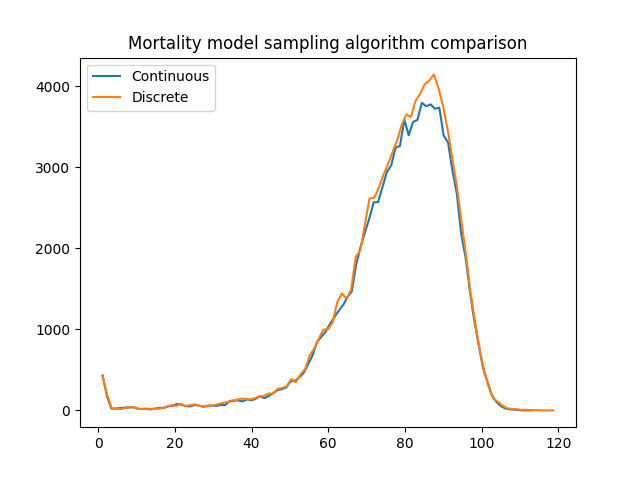
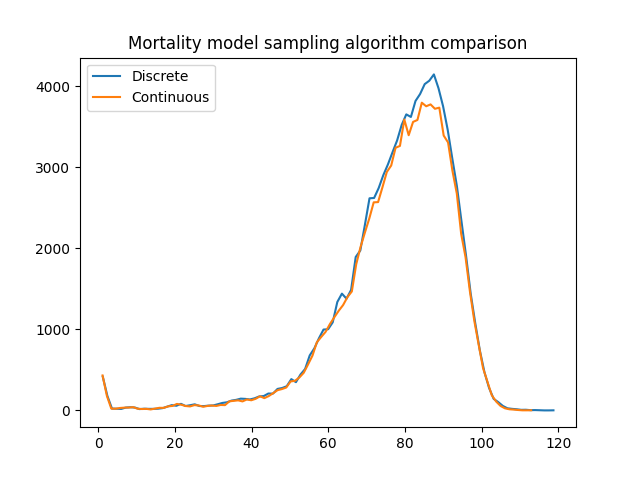
improve mortality example

diff --git a/examples/mortality/people.py b/examples/mortality/people.py
@@ -2,28 +2,24 @@
 import numpy as np
 import pandas as pd
 import neworder
-import ethpop
 
-class People(neworder.Model):
+class PeopleDiscrete(neworder.Model):
   """ Persons sampled each represented as a row in a data frame """
   def __init__(self, mortality_hazard_file, n, max_age):
     # This is case-based model the timeline refers to the age of the cohort
     timeline = neworder.Timeline(0.0, max_age, [int(max_age)])
     super().__init__(timeline, neworder.MonteCarlo.deterministic_identical_stream)
-    # initialise cohort
-    # filter by location, ethnicity and gender
-    self.mortality_hazard = ethpop.create(pd.read_csv(mortality_hazard_file), "E09000030", truncate85=False).reset_index()
 
-    self.mortality_hazard = self.mortality_hazard[(self.mortality_hazard.NewEthpop_ETH=="WBI")
-                                                & (self.mortality_hazard.DC1117EW_C_SEX==1)]
+    # initialise cohort
+    self.mortality_hazard = pd.read_csv(mortality_hazard_file)
 
     # store the largest age we have a rate for
     self.max_rate_age = max(self.mortality_hazard.DC1117EW_C_AGE) - 1
 
     #neworder.log(self.mortality_hazard.head())
-    self.population = pd.DataFrame(data={"Alive": np.full(n, True),
-                                         "Age": np.zeros(n),
-                                         "TimeOfDeath": np.zeros(n)})
+    self.population = pd.DataFrame(data={"alive": np.full(n, True),
+                                         "age": np.zeros(n),
+                                         "age_at_death": np.zeros(n)})
 
     self.max_age = max_age
 
@@ -31,11 +27,11 @@ class People(neworder.Model):
     # kill off some people
     self.die()
     # age the living only
-    alive = self.population.loc[self.population.Alive].index
-    self.population.loc[alive, "Age"] = self.population.loc[alive, "Age"] + self.timeline().dt()
+    alive = self.population.loc[self.population.alive].index
+    self.population.loc[alive, "age"] = self.population.loc[alive, "age"] + self.timeline().dt()
 
   def check(self):
-    neworder.log("pct alive = %f" % (100.0 * np.mean(self.population.Alive)))
+    neworder.log("pct alive = %f" % (100.0 * np.mean(self.population.alive)))
     return True
 
   def checkpoint(self):
@@ -45,7 +41,7 @@ class People(neworder.Model):
     # using indexes to subset data as cannot store a reference to a subset of the dataframe (it just copies)
 
     # first filter out the already dead
-    alive = self.population.loc[self.population.Alive].index
+    alive = self.population.loc[self.population.alive].index
     # sample time of death
     r = self.mc().stopping(self.mortality_hazard.Rate.values[min(self.timeline().index()-1, self.max_rate_age)], len(alive))
     # select if death happens before next timestep...
@@ -56,45 +52,40 @@ class People(neworder.Model):
     newly_dead = alive[r<dt]
 
     # kill off those who die before next timestep
-    self.population.loc[newly_dead, "Alive"] = False
-    self.population.loc[newly_dead, "TimeOfDeath"] = self.population.loc[newly_dead, "Age"] + r[r<dt]
+    self.population.loc[newly_dead, "alive"] = False
+    self.population.loc[newly_dead, "age_at_death"] = self.population.loc[newly_dead, "age"] + r[r<dt]
 
   def calc_life_expectancy(self):
     # ensure all people have died
-    assert np.sum(self.population.Alive) == 0
-    return np.mean(self.population.TimeOfDeath)
+    assert np.sum(self.population.alive) == 0
+    return np.mean(self.population.age_at_death)
 
 
-class People2(neworder.Model):
+class PeopleContinuous(neworder.Model):
   """ Persons sampled each represented as a row in a data frame """
   def __init__(self, mortality_hazard_file, n, max_age):
     # Direct sampling doesnt require a timeline
     super().__init__(neworder.Timeline.null(), neworder.MonteCarlo.deterministic_identical_stream)
     # initialise cohort
-    # filter by location, ethnicity and gender
-    self.mortality_hazard = ethpop.create(pd.read_csv(mortality_hazard_file), "E09000030", truncate85=False).reset_index()
-
-    self.mortality_hazard = self.mortality_hazard[(self.mortality_hazard.NewEthpop_ETH=="WBI")
-                                                & (self.mortality_hazard.DC1117EW_C_SEX==1)]
+    self.mortality_hazard = pd.read_csv(mortality_hazard_file)
 
     # store the largest age we have a rate for
     self.max_rate_age = max(self.mortality_hazard.DC1117EW_C_AGE) - 1
 
     #neworder.log(self.mortality_hazard.head())
-    self.population = pd.DataFrame(data={"TimeOfDeath": np.zeros(n)})
+    self.population = pd.DataFrame(data={"age_at_death": np.zeros(n)})
 
     self.max_age = max_age
 
   def step(self):
-    self.population["TimeOfDeath"] = self.mc().first_arrival(self.mortality_hazard.Rate.values, 1.0, len(self.population))
+    self.population.age_at_death = self.mc().first_arrival(self.mortality_hazard.Rate.values, 1.0, len(self.population))
+
+  def check(self):
+    # ensure all times of death are finite 
+    return self.population.age_at_death.isnull().sum() == 0    
 
   def checkpoint(self):
     pass
 
   def calc_life_expectancy(self):
-
-    # in this case we can also compute the mortality directly by modelling a non-homogeneous Poisson process
-    # using the Lewis-Shedler algorithm
-
-    # compare the discrete simulation value against the more direct computation
-    return np.mean(self.population.TimeOfDeath)
+    return np.mean(self.population.age_at_death)

diff --git a/examples/mortality/plot.py b/examples/mortality/plot.py
@@ -1,22 +1,49 @@
 
 import numpy as np
 from matplotlib import pyplot as plt
-#import seaborn as sns
-import animation
+import matplotlib.pyplot as plt
+import matplotlib.animation as animation
 
-def plot(population, population2, filename=None, anim_filename=None):
+class Hist:
+  def __init__(self, data, numbins):
+
+    fig, ax = plt.subplots()
+    # see https://matplotlib.org/api/_as_gen/matplotlib.pyplot.hist.html
+    self.n, _bins, self.patches = plt.hist(data, numbins, facecolor='black')
+
+    ax.set_title("Discrete case-based mortality model (%d people)" % len(data))
+    ax.set_xlabel("Age at Death")
+    ax.set_ylabel("Persons")
+
+    self.anim = animation.FuncAnimation(fig, self.__animate, interval=100, frames=numbins, repeat=True, repeat_delay=3000)
+
+  def save(self, filename):
+    self.anim.save(filename, dpi=80, writer='imagemagick')
+
+  def show(self):
+    plt.show()
+
+  def __animate(self, frameno):
+    i = 0
+    for rect, h in zip(self.patches, self.n):
+      rect.set_height(h if i <= frameno else 0)
+      i = i + 1
+    return self.patches
+
+
+def plot(pop_disc, pop_cont, filename=None, anim_filename=None):
   #sns.set()
-  y1, x1 = np.histogram(population2.TimeOfDeath, int(max(population.Age)))
+  y1, x1 = np.histogram(pop_disc.age_at_death, int(max(pop_disc.age)))
   plt.plot(x1[1:], y1)
-  y2, x2 = np.histogram(population.TimeOfDeath, int(max(population.Age)))
+  y2, x2 = np.histogram(pop_cont.age_at_death, int(max(pop_disc.age)))
   plt.plot(x2[1:], y2)
   plt.title("Mortality model sampling algorithm comparison")
-  plt.legend(["Continuous", "Discrete"])
+  plt.legend(["Discrete", "Continuous"])
 
   if filename is not None:
     plt.savefig(filename)
 
-  h = animation.Hist(population2.TimeOfDeath, int(max(population.Age)))
+  h = Hist(pop_disc.age_at_death, int(max(pop_disc.age)))
   if anim_filename is not None:
     h.save(anim_filename)
   h.show()

diff --git a/examples/mortality/model.py b/examples/mortality/model.py
@@ -3,34 +3,35 @@ This is based on the model in Chapter 2, "The Life Table" from the Belanger & Sa
 See https://www.microsimulationandpopulationdynamics.com/
 """
 import neworder
-from people import People, People2
-from plot import plot
+from people import PeopleDiscrete, PeopleContinuous
 import numpy as np
 import time
+from plot import plot
 
 #neworder.verbose()
+# checks disabled to emphasis performance differences
 neworder.checked(False)
 
 max_age = 100.0
 
 # Get some mortality rate data
-mortality_hazard_file = "examples/shared/NewETHPOP_mortality.csv"
+mortality_hazard_file = "examples/mortality/ethpop_mortality_wbi.csv"
 population_size = 100000
 
 neworder.log("Population = %d" % population_size)
 
-mortality = People(mortality_hazard_file, population_size, max_age)
+mortality_discrete = PeopleDiscrete(mortality_hazard_file, population_size, max_age)
 
 start = time.perf_counter()
-neworder.run(mortality)
+neworder.run(mortality_discrete)
 end = time.perf_counter()
-neworder.log("Discrete model life expectancy = %f, exec time = %f" % (mortality.calc_life_expectancy(), end - start))
+neworder.log("Discrete model life expectancy = %f, exec time = %f" % (mortality_discrete.calc_life_expectancy(), end - start))
 
-mortality2 = People2(mortality_hazard_file, population_size, max_age)
+mortality_continuous = PeopleContinuous(mortality_hazard_file, population_size, max_age)
 
 start = time.perf_counter()
-neworder.run(mortality2)
+neworder.run(mortality_continuous)
 end = time.perf_counter()
-neworder.log("Continuous model life expectancy = %f, exec time = %f" % (mortality2.calc_life_expectancy(), end - start))
+neworder.log("Continuous model life expectancy = %f, exec time = %f" % (mortality_continuous.calc_life_expectancy(), end - start))
 
-plot(mortality.population, mortality2.population)
+plot(mortality_discrete.population, mortality_continuous.population)

diff --git a/src/lib/Module_docstr.cpp b/src/lib/Module_docstr.cpp
@@ -193,8 +193,8 @@ const char* model_checkpoint_docstr = R"docstr(
     This function should not be called directly, it is used by the Model.run() function 
 )docstr";
 const char* model_halt_docstr = R"docstr(
-    Signal to the model to stop execution at the end of the current timestep, e.g. if some convergence criterion has been met.
-    For trapping exceptional/error conditions, prefer to return False from the Model.check() function 
+    Signal to the model to stop execution gracefully at the end of the current timestep, e.g. if some convergence criterion has been met.
+    For trapping exceptional/error conditions, prefer to raise and exception, or return False from the Model.check() function 
 )docstr";
 
 // MPI 

diff --git a/docs/examples/option.md b/docs/examples/option.md
@@ -1,5 +1,6 @@
-
 # Derivative Pricing
+
+This example showcases how to run parallel simulations, each with slightly different input data, in order to compute sensitivities to the input paramters.
 
 ## Background
 
@@ -13,17 +14,20 @@ In order to calculate the fair value of a derivative contract one can simulate a
 \frac{dS}{S} = (r-q)dt + \sigma dW
 \]
 
-where \(S\) is price, \(r\) is risk-free rate, \(q\) is continuous dividend yield, \(\sigma\) is volatility and \(dW\) a Wiener process (a 1-d Brownian motion).
+where \(S\) is price, \(r\) is risk-free rate, \(q\) is continuous dividend yield, \(\sigma\) is volatility and \(dW\) a Wiener process (a 1-d Brownian motion), and the value of the option \(V\) is
 
-We then take the mean of the derivative price for
-each simulated path to get the value of the derivative _at expiry_. Finally this price is discounted to get the current fair value.
+\[
+V(0) = e^{-rT}.\text{max}\left( S(T)-K,0 \right)
+\]
 
-We can easily frame a derivative derivative pricing problem in terms of a microsimulation model:
+We can compute this by simulating paths to get \(S(T)\) and taking the mean. The first term above discounts back to \(t=0\), so we get the *current* fair value.
 
-- start with an intial \(t=0\) population of \(N\) (identical) underlying prices. Social scientists could refer to this as a 'cohort'.
-- evolve each price to option expiry time \(t=T\) using Monte-Carlo simulation
-- compute the option prices for each of the underlyings and take the mean
-- discount the option price back to valuation date \(t=0\)
+We can easily frame this derivative pricing problem in terms of a microsimulation model:
+
+- start with an intial \(t=0\) population of \(N\) (identical) underlying prices \(S(0)\). Social scientists could refer to this as a 'cohort'.
+- evolve each price to option expiry time \(S(T)\) using Monte-Carlo simulation
+
+We then compute the mean of the discounted option prices for each of the underlying prices to get the result.
 
 For this simple option we can also compute an analytic fair value under the Black-Scholes model, and use this to determine the accuracy of the Monte-Carlo simulation. We also demonstrate the capabilities neworder has in terms of sensitivity analysis, by using multiple processes to compute finite-difference approximations to the following risk measures:
 

diff --git a/docs/package.md b/docs/package.md
@@ -8,11 +8,11 @@ Bump [VERSION](./VERSION), then build and test. If ok, run this script, which pa
 scripts/package.sh
 ```
 
-Then, create a release on github, which will trigger zenodo generate a new DOI.
+Then, create a release on github, which will trigger zenodo to generate a new DOI.
 
 ## Conda
 
-Conda-force should automatically pick up any new release to pip. The feedstock is [here](https://github.com/conda-forge/neworder-feedstock)
+Conda-forge should automatically pick up any new release to pip. The feedstock is [here](https://github.com/conda-forge/neworder-feedstock)
 
 ## Docker
 
@@ -20,12 +20,12 @@ Use the supplied [Dockerfile](./Dockerfile) and build, tag and push as required.
 
 ## Documentation
 
-`docs/macros.py` defines macros used by mkdocs to insert code (and other) snippets into files
+`docs/macros.py` defines macros used by mkdocs to insert code (and other) snippets into files.
 
-readthedocs.io should auotmatically pick up and update the documentation on a commit. API documentation requires a manual step however:
+readthedocs.io should auotmatically pick up and update the documentation on a commit. API documentation, and packaging example source code requires a manual step however:
 
+```bash
+scripts/apidoc.sh
 ```
-scripts/docstr2md.py
-```
 
-regenerates markdown from the raw docstrings and writes to docs/apidoc.md, which is subsequently inserted into docs/api.md.
+which zips the current examples and regenerates API documentation from the raw docstrings and writes them to `docs/apidoc.md`, which is subsequently inserted into `docs/api.md` by mkdocs.
